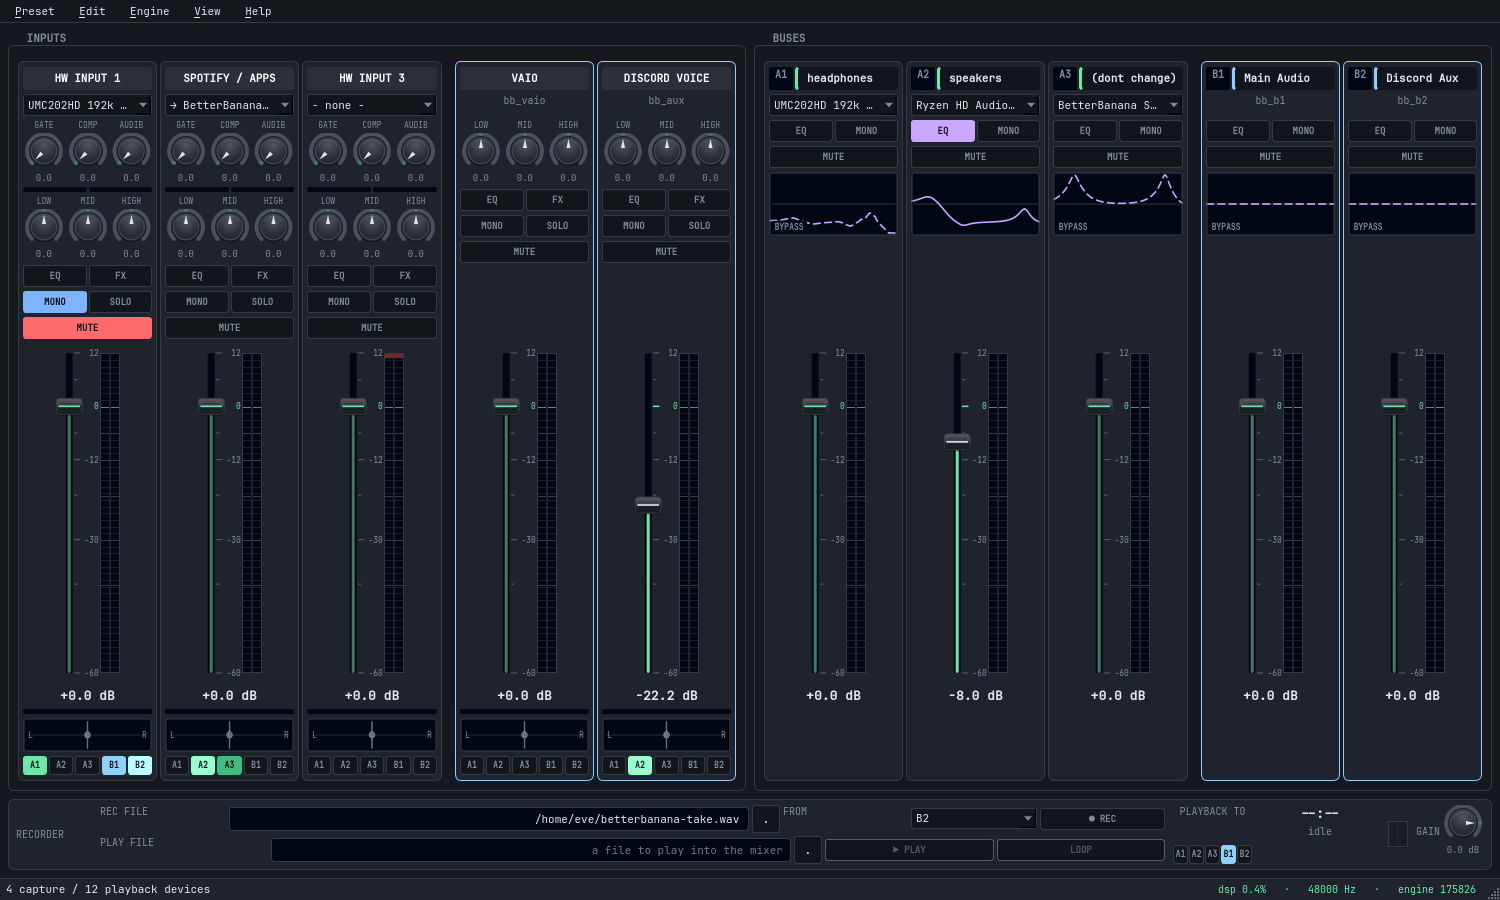
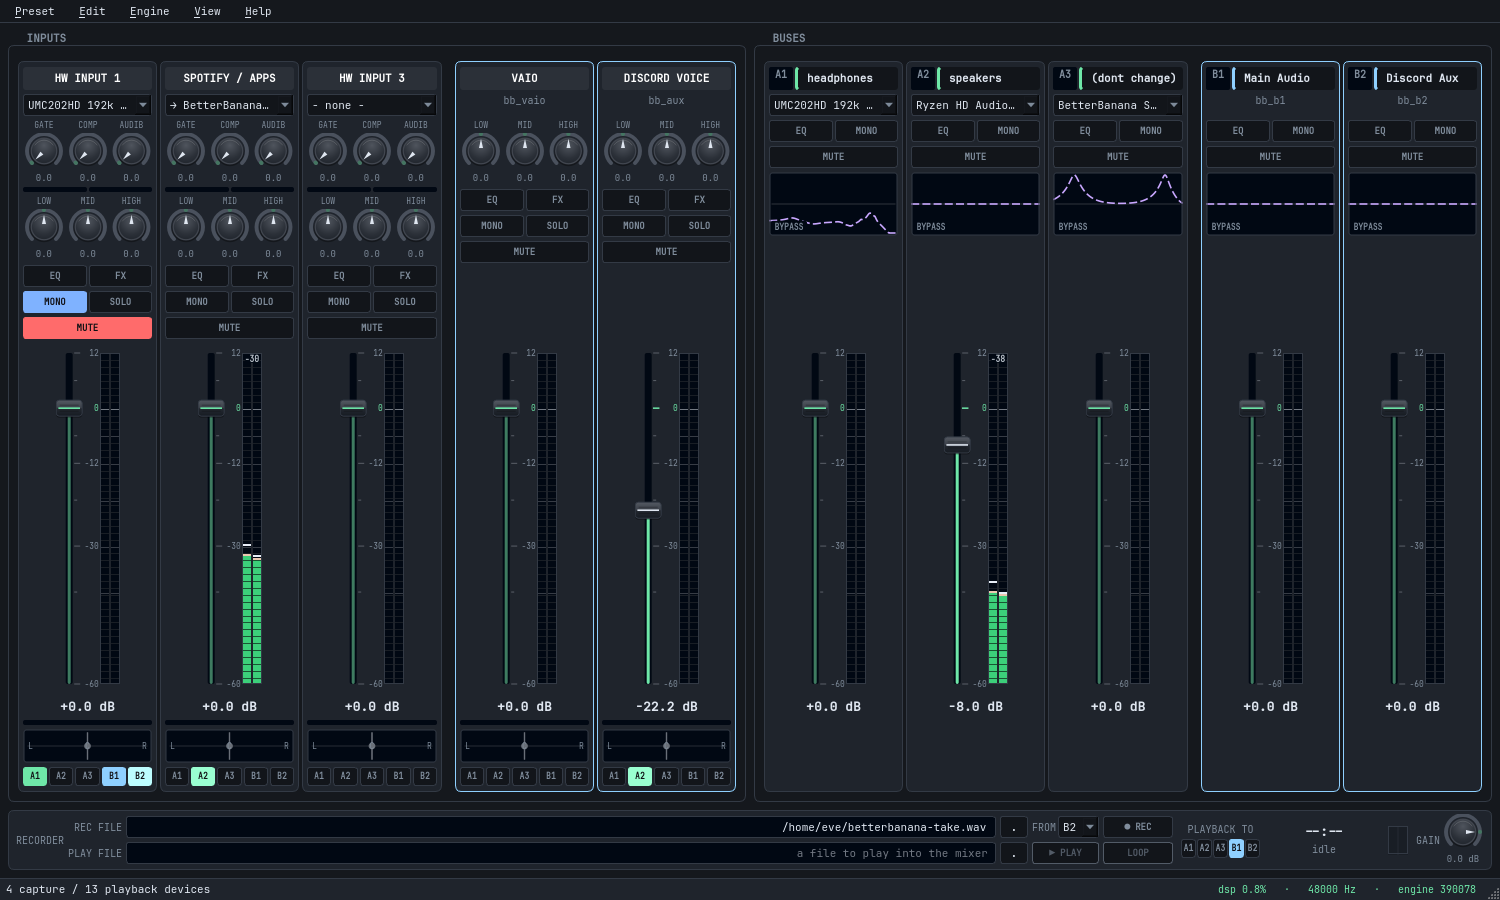
Lay the transport out on a grid, and stop it scrolling away
The record and play rows were two independent QHBoxLayouts stacked in a
column, so nothing in one lined up with anything in the other. The two
path fields began at different x, because "REC FILE" and "PLAY FILE" are
different widths and each row sized its own label. FROM sat in the gap
between the rows, attached to neither. PLAYBACK TO was at the far right
of the bar with its own A1..B2 chips three hundred pixels away on the row
below it. And the readout column shared its slack between three items, so
a gap opened where the position bar sits when it is hidden.

One QGridLayout: both file rows are built by the same lambda, so the
label, field and browse columns cannot drift apart; FROM belongs to the
combo it names; REC and LOOP share a column, PLAY and the source picker
share another; PLAYBACK TO sits directly above its own chips; and the
three right-hand blocks are centred rather than spread.

The transport also lived inside the scroll area. At the window's own
minimum height that made it the part that fell below the fold - the one
control you reach for while something is playing. It and the
engine-stopped banner are pinned now, and only the console scrolls.

Claude-Session: https://claude.ai/code/session_01PiSyAgKUjqVEwWv65DJkYr

diff --git a/BetterBanana/gui/mainwindow.cpp b/BetterBanana/gui/mainwindow.cpp
@@ -756,93 +756,114 @@ RecorderWidget::RecorderWidget(Shared* shm, QWidget* parent)
     setProperty("role", "card");
     setAttribute(Qt::WA_StyledBackground, true);
     m_pulse.start();
+
+    // A grid, not two independent rows.
+    //
+    // The record and play rows used to be separate QHBoxLayouts inside a
+    // column, so nothing in one lined up with anything in the other: the two
+    // path fields began at different x because "REC FILE" and "PLAY FILE" are
+    // different widths, FROM floated in the gap between the rows attached to
+    // neither, and PLAYBACK TO sat at the far right of the bar with its own
+    // chips three hundred pixels away on the row below. One grid gives every
+    // column a single edge.
+    //
+    //   col:   0        1          2            3     4        5
+    //   row 0: RECORDER REC FILE   [path...]    [...] FROM/bus [REC]   ...
+    //   row 1:          PLAY FILE  [path...]    [...] [PLAY]   [LOOP]  ...
     auto* root = new QHBoxLayout(this);
-    root->setContentsMargins(bbui::gapM(), bbui::gapS() + 2, bbui::gapM(), bbui::gapS() + 2);
+    root->setContentsMargins(bbui::gapM(), bbui::gapS(), bbui::gapM(), bbui::gapS());
     root->setSpacing(bbui::gapM());
+
+    auto* g = new QGridLayout;
+    g->setHorizontalSpacing(bbui::gapS());
+    g->setVerticalSpacing(bbui::gapXS());
+    root->addLayout(g, 1);
 
     {   // The card names itself now that it is no longer inside a group box.
         auto* title = makeLabel("RECORDER", "caption", Qt::AlignLeft | Qt::AlignVCenter);
-        title->setFixedWidth(bbui::px(76));
-        root->addWidget(title);
+        g->addWidget(title, 0, 0, 2, 1);
     }
 
-    // Record side
-    auto* recCol = new QVBoxLayout;
-    recCol->setSpacing(bbui::gapS() - 1);
-    {
-        auto* r = new QHBoxLayout;
-        r->setSpacing(bbui::gapS() - 1);
-        r->addWidget(makeLabel("REC FILE", "caption", Qt::AlignLeft));
-        m_recPath = new QLineEdit(QDir::homePath() + "/betterbanana-take.wav");
-        m_recPath->setMinimumWidth(bbui::px(200));
-        m_recPath->setMaximumWidth(bbui::px(520));
-        m_recPath->setPlaceholderText("where to record to");
-        // Right-aligned: a 900px field showing 150px of "/home/eve" and hiding
-        // the filename is the wrong end of the path to keep.
-        m_recPath->setAlignment(Qt::AlignRight);
-        connect(m_recPath, &QLineEdit::editingFinished, this, [this]{ writePaths(); });
-        r->addWidget(m_recPath, 1);
-        auto* browse = new QPushButton("...");
-        browse->setFixedWidth(bbui::px(28));
-        connect(browse, &QPushButton::clicked, this, [this] {
-            const QString f = QFileDialog::getSaveFileName(this, "Record to", m_recPath->text(),
-                                                           "WAV audio (*.wav)");
-            if (!f.isEmpty()) { m_recPath->setText(f); writePaths(); }
-        });
-        r->addWidget(browse);
-        r->addWidget(makeLabel("FROM", "caption", Qt::AlignLeft));
+    // Both file rows are built the same way, so the columns cannot drift apart.
+    auto fileRow = [&](int row, const QString& caption, QLineEdit*& field,
+                       const QString& placeholder, std::function<void()> browse) {
+        g->addWidget(makeLabel(caption, "caption", Qt::AlignRight | Qt::AlignVCenter), row, 1);
+        field = new QLineEdit;
+        field->setMinimumWidth(bbui::px(180));
+        field->setPlaceholderText(placeholder);
+        // Right-aligned: a wide field showing "/home/eve" and hiding the
+        // filename is keeping the wrong end of the path.
+        field->setAlignment(Qt::AlignRight);
+        field->setFixedHeight(bbui::rowH());
+        connect(field, &QLineEdit::editingFinished, this, [this] { writePaths(); });
+        g->addWidget(field, row, 2);
+        auto* b = new QPushButton("...");
+        b->setFixedWidth(bbui::px(28));
+        b->setFixedHeight(bbui::rowH());
+        b->setToolTip("Browse");
+        connect(b, &QPushButton::clicked, this, browse);
+        g->addWidget(b, row, 3);
+    };
+
+    fileRow(0, "REC FILE", m_recPath, "where to record to", [this] {
+        const QString f = QFileDialog::getSaveFileName(this, "Record to", m_recPath->text(),
+                                                       "WAV audio (*.wav)");
+        if (!f.isEmpty()) { m_recPath->setText(f); writePaths(); }
+    });
+    m_recPath->setText(QDir::homePath() + "/betterbanana-take.wav");
+
+    fileRow(1, "PLAY FILE", m_playPath, "a file to play into the mixer", [this] {
+        const QString f = QFileDialog::getOpenFileName(this, "Play file", QDir::homePath(),
+                                    "Audio (*.wav *.flac *.ogg *.aiff);;All files (*)");
+        if (!f.isEmpty()) { m_playPath->setText(f); writePaths(); }
+    });
+
+    {   // Source bus, on the record row, with its label attached to it rather
+        // than floating between the two rows.
+        auto* from = new QHBoxLayout;
+        from->setSpacing(bbui::gapXS());
+        from->addWidget(makeLabel("FROM", "caption", Qt::AlignRight | Qt::AlignVCenter));
         m_srcBus = new QComboBox;
         for (int b = 0; b < kBuses; ++b) m_srcBus->addItem(kBusLabel[b]);
         m_srcBus->setCurrentIndex(m_shm->rec.source_bus.load());
+        m_srcBus->setFixedHeight(bbui::rowH());
+        m_srcBus->setToolTip("Which bus is recorded");
         connect(m_srcBus, &QComboBox::currentIndexChanged, this,
-                [this](int i){ m_shm->rec.source_bus.store(i); });
-        r->addWidget(m_srcBus);
-        m_rec = makeToggle("● REC", "rec");
-        connect(m_rec, &QPushButton::clicked, this, [this] {
-            writePaths();
-            sendCmd(m_shm->rec.state.load() == kRecRecording ? kCmdRecStop : kCmdRecStart);
-        });
-        r->addWidget(m_rec);
-        recCol->addLayout(r);
+                [this](int i) { m_shm->rec.source_bus.store(i); });
+        from->addWidget(m_srcBus, 1);
+        g->addLayout(from, 0, 4);
     }
-    // Play side
-    {
-        auto* r = new QHBoxLayout;
-        r->setSpacing(bbui::gapS() - 1);
-        r->addWidget(makeLabel("PLAY FILE", "caption", Qt::AlignLeft));
-        m_playPath = new QLineEdit;
-        m_playPath->setMinimumWidth(bbui::px(200));
-        m_playPath->setMaximumWidth(bbui::px(520));
-        m_playPath->setPlaceholderText("a file to play into the mixer");
-        m_playPath->setAlignment(Qt::AlignRight);
-        connect(m_playPath, &QLineEdit::editingFinished, this, [this]{ writePaths(); });
-        r->addWidget(m_playPath, 1);
-        auto* browse = new QPushButton("...");
-        browse->setFixedWidth(bbui::px(28));
-        connect(browse, &QPushButton::clicked, this, [this] {
-            const QString f = QFileDialog::getOpenFileName(this, "Play file", QDir::homePath(),
-                                        "Audio (*.wav *.flac *.ogg *.aiff);;All files (*)");
-            if (!f.isEmpty()) { m_playPath->setText(f); writePaths(); }
-        });
-        r->addWidget(browse);
-        m_play = makeToggle("▶ PLAY", "accent");
-        connect(m_play, &QPushButton::clicked, this, [this] {
-            writePaths();
-            sendCmd(m_shm->rec.state.load() == kRecPlaying ? kCmdPlayStop : kCmdPlayStart);
-        });
-        r->addWidget(m_play);
-        m_loop = makeToggle("LOOP", "accent");
-        connect(m_loop, &QPushButton::toggled, this,
-                [this](bool b){ m_shm->rec.loop.store(b ? 1 : 0); });
-        r->addWidget(m_loop);
-        recCol->addLayout(r);
-    }
-    root->addLayout(recCol, 1);
 
-    // Playback gain + routing
-    {
+    m_rec = makeToggle("● REC", "rec");
+    m_rec->setMinimumWidth(bbui::px(70));
+    connect(m_rec, &QPushButton::clicked, this, [this] {
+        writePaths();
+        sendCmd(m_shm->rec.state.load() == kRecRecording ? kCmdRecStop : kCmdRecStart);
+    });
+    g->addWidget(m_rec, 0, 5);
+
+    m_play = makeToggle("▶ PLAY", "accent");
+    connect(m_play, &QPushButton::clicked, this, [this] {
+        writePaths();
+        sendCmd(m_shm->rec.state.load() == kRecPlaying ? kCmdPlayStop : kCmdPlayStart);
+    });
+    g->addWidget(m_play, 1, 4);
+
+    m_loop = makeToggle("LOOP", "accent");
+    m_loop->setMinimumWidth(bbui::px(70));
+    connect(m_loop, &QPushButton::toggled, this,
+            [this](bool b) { m_shm->rec.loop.store(b ? 1 : 0); });
+    g->addWidget(m_loop, 1, 5);
+
+    // Only the path fields absorb a wider window.
+    g->setColumnStretch(2, 1);
+
+    // --- the right-hand block: where it is going, and what it is doing ------
+    {   // Caption over its own chips, in one column, so the two are read
+        // together instead of at opposite ends of the bar.
         auto* col = new QVBoxLayout;
         col->setSpacing(bbui::gapXS());
+        col->addStretch();
         col->addWidget(makeLabel("PLAYBACK TO", "caption"));
         auto* r = new QHBoxLayout;
         r->setSpacing(bbui::gapXS() - 1);
@@ -852,19 +873,25 @@ RecorderWidget::RecorderWidget(Shared* shm, QWidget* parent)
             btn->setProperty("bus", b);
             btn->setChecked(m_shm->rec.bus_on[b].load() != 0);
             connect(btn, &QPushButton::toggled, this,
-                    [this, b](bool on){ m_shm->rec.bus_on[b].store(on ? 1 : 0); });
+                    [this, b](bool on) { m_shm->rec.bus_on[b].store(on ? 1 : 0); });
             m_busBtns.push_back(btn);
             r->addWidget(btn);
         }
         col->addLayout(r);
+        col->addStretch();
         root->addLayout(col);
     }
-    {   // The 180px void in the middle of the bar, given a tenant: a timecode
-        // the widget already formatted but only ever printed into a caption,
-        // a position bar, and a meter on what is actually being recorded.
+
+    {   // Transport readout: a timecode the widget already formatted but only
+        // ever printed into a caption, a position bar, and what it is doing.
         auto* col = new QVBoxLayout;
         col->setSpacing(bbui::gapXS());
+        // Centred, so the slack goes above and below rather than being shared
+        // out between the three items - which left a gap where the position
+        // bar sits when it is hidden.
+        col->addStretch();
         m_time = makeLabel("--:--", "gain", Qt::AlignHCenter);
+        m_time->setMinimumWidth(bbui::px(112));
         col->addWidget(m_time);
         m_progress = new QProgressBar;
         m_progress->setTextVisible(false);
@@ -875,30 +902,27 @@ RecorderWidget::RecorderWidget(Shared* shm, QWidget* parent)
         m_status = makeLabel("idle", "caption", Qt::AlignHCenter);
         col->addWidget(m_status);
         col->addStretch();
-        root->addLayout(col, 0);
-        m_time->setMinimumWidth(bbui::px(120));
+        root->addLayout(col);
     }
+
     {
         m_meter = new LevelMeter(kChan);
-        m_meter->setFixedHeight(bbui::px(46));
+        m_meter->setFixedHeight(bbui::px(48));
         m_meter->setToolTip("The bus being recorded");
-        root->addWidget(m_meter);
+        root->addWidget(m_meter, 0, Qt::AlignVCenter);
     }
-    {
-        auto* col = new QVBoxLayout;
-        col->setSpacing(bbui::gapXS());
+
+    {   // Caption beside the knob, not stacked above it: stacking is what
+        // inflated the whole bar by a row for one word.
         auto* gr = new QHBoxLayout;
         gr->setSpacing(bbui::gapXS());
-        // Caption beside the knob, not stacked above it: stacking is what
-        // inflated the whole bar by a row for one word.
         gr->addWidget(makeLabel("GAIN", "caption", Qt::AlignRight | Qt::AlignVCenter));
         m_gain = new Knob(-600, 120, 0, true, " dB");
-        gr->addWidget(m_gain);
+        m_gain->setToolTip("Level of the file played into the mixer");
         connect(m_gain, &Knob::valueChanged, this,
-                [this](int v){ m_shm->rec.gain_db.store(v / 10.0f); });
-        col->addLayout(gr);
-        col->addStretch();
-        root->addLayout(col);
+                [this](int v) { m_shm->rec.gain_db.store(v / 10.0f); });
+        gr->addWidget(m_gain);
+        root->addLayout(gr);
     }
 }
 
@@ -1717,18 +1741,35 @@ MainWindow::MainWindow(Shared* shm, QWidget* parent)
     // rather than into the faders. Tier 3 puts a dock in it.
     outer->addStretch(1);
 
-    // The recorder is a card in its own right now that cards paint; a plate
-    // inside a group box would be framed twice.
-    m_recorder = new RecorderWidget(m_shm);
-    outer->addWidget(m_recorder);
-
     auto* scroll = new QScrollArea;
     m_scroll = scroll;
     m_central = central;
     scroll->setWidget(central);
     scroll->setWidgetResizable(true);
     scroll->setFrameShape(QFrame::NoFrame);
-    setCentralWidget(scroll);
+
+    // Only the console scrolls. The transport is a control you reach for while
+    // something is playing, so putting it inside the scroll area meant that at
+    // the window's own minimum height it was the part that fell below the fold.
+    // The engine-stopped banner is pinned for the same reason.
+    //
+    // The recorder is a card in its own right now that cards paint; a plate
+    // inside a group box would be framed twice.
+    m_recorder = new RecorderWidget(m_shm);
+
+    auto* frame = new QWidget;
+    auto* fl = new QVBoxLayout(frame);
+    fl->setContentsMargins(0, 0, 0, 0);
+    fl->setSpacing(0);
+    fl->addWidget(scroll, 1);
+    {   // The same gutter the console has, so the transport still reads as a
+        // card rather than a band clipped against the window edge.
+        auto* row = new QHBoxLayout;
+        row->setContentsMargins(bbui::gapM(), 0, bbui::gapM(), bbui::gapM());
+        row->addWidget(m_recorder);
+        fl->addLayout(row);
+    }
+    setCentralWidget(frame);
 
     buildMenus();
 
@@ -1742,7 +1783,10 @@ MainWindow::MainWindow(Shared* shm, QWidget* parent)
     // the floor travel. Hard-coding it got the app a horizontal scrollbar at
     // its own stated minimum.
     if (m_central) {
-        const QSize need = m_central->minimumSizeHint().expandedTo(m_central->sizeHint());
+        QSize need = m_central->minimumSizeHint().expandedTo(m_central->sizeHint());
+        // The transport sits outside the scroll area now, so its height is not
+        // in the measurement above.
+        if (m_recorder) need.rheight() += m_recorder->sizeHint().height();
         // Width is a hard floor - ten columns cannot overlap. Height is capped
         // well below what the content wants, because a 1366x768 laptop has
         // about 730 usable pixels and scrolling the console is a far better
